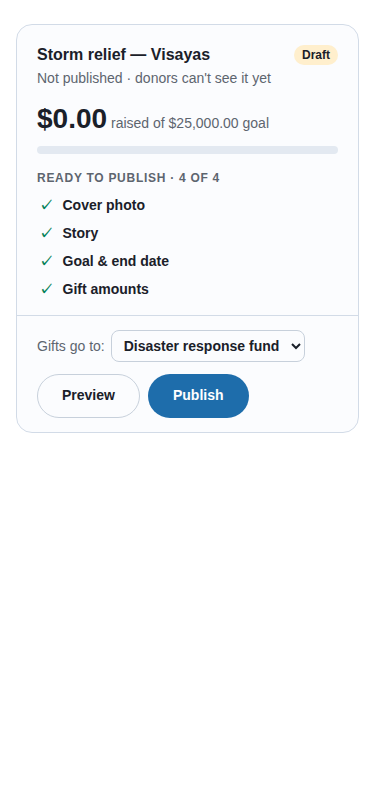
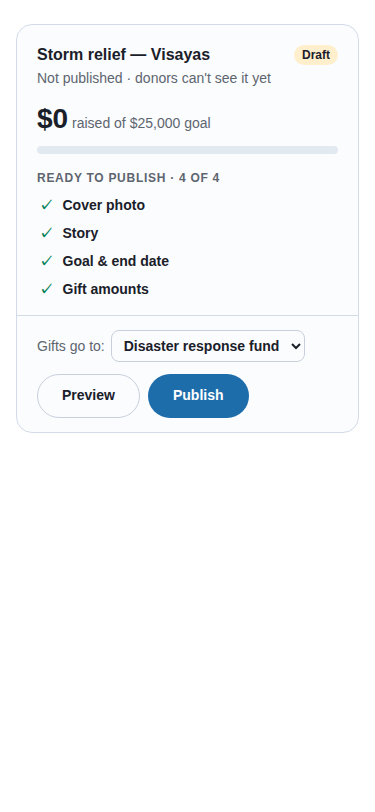
Show whole amounts without cents in the results card and retake the screenshots

Changed region(s): [[0.2053, 0.1232, 0.7333, 0.1847]]

diff --git a/src/widgets/campaign-results/stats.tsx b/src/widgets/campaign-results/stats.tsx
@@ -3,11 +3,11 @@ import type { CampaignResultsData } from "../model";
 import { scaled, scaleOf, unscaled } from "../ui/decimal";
 import { ProgressBar, percentOf } from "../ui/progress";
 import { Sparkline, weekOverWeek } from "../ui/sparkline";
-import { useMoney } from "../ui/text";
+import { useWholeMoney } from "../ui/text";
 import { useLocale } from "../ui/widget";
 
 export function Totals(props: { data: CampaignResultsData }) {
-	const money = useMoney();
+	const money = useWholeMoney();
 	const { data } = props;
 	const { goal } = data.campaign;
 	const percent = percentOf(data.raised, goal);
@@ -48,7 +48,7 @@ export function Totals(props: { data: CampaignResultsData }) {
 }
 
 export function Facts(props: { data: CampaignResultsData }) {
-	const money = useMoney();
+	const money = useWholeMoney();
 	const count = new Intl.NumberFormat(useLocale());
 	const { data } = props;
 	const { daily } = data;

diff --git a/docs/widget-screenshots/README.md b/docs/widget-screenshots/README.md
@@ -2,37 +2,37 @@
 
 Each PNG is one widget state mounted in headless Chromium against a fake MCP Apps host (`test/widget-host/`). Names are `<nn>-<widget>-<state>-<light|dark>-<width>.png`: `01` campaign create, `02` campaigns carousel, `03` results card, `04` editor, `05` photo card. Regenerate with `pnpm widget-shots` (on a clean machine run `pnpm exec playwright-core install chromium` once first: playwright-core ships no browser); the states live in `test/widget-host/fixtures.ts`.
 
-States: `01` presets (history) and starting (no history); `02` five, empty, error; `03` draft, live, end-confirm (End campaign pressed); `04` blocks (fullscreen); `05` dropped (a photo in the chat), none. Every state is shot light and dark at 1440 and 375. The inline widgets sit in a 736px column at 1440, as a chat column does.
+States: `01` presets (history) and starting (no history); `02` five, empty, error; `03` draft, live, end-confirm (End campaign pressed); `04` blocks (fullscreen); `05` dropped (a photo in the chat), none. Every state is shot light and dark at 1440 and 375. The inline widgets sit in a 768px column at 1440, as a chat column does (the carousel's five-up shot uses 1040px).
 
-## Where the widgets differ from DESIGN.md
+## Where the widgets still differ from the approved mockups
 
-The mockup images could not be opened in the build environment, so this compares the built widgets with DESIGN.md's written per-screen rationale.
+Compared against `01`–`04` of the approved mockups. The chat shell around each card (sidebar, assistant text, composer) is drawn by the host and is not built.
 
-**01 Campaign create**
-- Four preset cards as a radio group, a "Recommended from your past results" strip with an evidence sentence per value, and Create draft / Customize match.
-- Customize creates the draft and opens it in the fullscreen editor. Below 640px the cards and the strip wrap 2x2, as DESIGN.md asks.
-- The mockup's pre-selected card comes from the render tool's `theme` input; with none, Emergency is selected.
-- "Starting points" (fewer than 2 past campaigns and 25 gifts) is a state DESIGN.md leaves open; it shows the theme defaults with the strip labelled as starting points.
+**01 Campaign create.** Matches: "Start a campaign" header and subtitle, Draft chip, scene illustrations, theme label in the brand colour, bold titles, goal and end date, gift amounts as pills, selected card with a 2px border and check badge, four recommendation columns with large values, the summary line left of Customize and Create draft.
+- The scenes are simpler redrawings, not the mockup's artwork.
+- The fourth recommendation is the theme, not the mockup's "Monthly ask"; the tool returns a theme recommendation, and "Length" is shown in days ("21 days"), not weeks.
+- The most-chosen-gift column shows the one amount the tool returns, not a ranked list.
 
-**02 Carousel**
-- Same card layout as DESIGN.md: image, status chip, title, raised of goal with the real percent (123% shown, bar capped at 100% and green), one metadata line, one action.
-- At 1440 the 736px chat column shows three cards and the rest scroll sideways; DESIGN.md's mockup shows all five at once. At 375 one card shows at a time.
+**02 Carousel.** Matches: image with the status chip on it, bold title, raised amount in bold with "of goal" muted and the percent at the right, bar, one meta line, one action. In a wide column (this shot uses a 1040px column) all five show; in a narrow one the row scrolls.
+- No "next" arrow button on the row; it scrolls by touch, trackpad or keyboard.
+- Cards have no illustrations: they show the campaign's own photo, or a neutral placeholder.
+- Percent is rounded down (73%), not up (74%), so 100% always means the goal is met.
 
-**03 Results card**
-- Draft: readiness checklist, "Gifts go to" and Publish / Preview match. "Gifts go to" is a select above the buttons, not in the footer.
-- Live: raised vs goal with a progress bar, donors, average and median gift, last 7 days against the previous 7 with a sparkline. End campaign is the red-outline button; the confirm states the effect, the donor count and that it cannot be undone, focus starts on Keep it live, and only the filled red button ends the campaign.
+**03 Results card.** Matches: bold title with "Ends <date> · N days left", status chip at the top right, large raised figure with "raised of $X" beside it, "N% of goal" and "$N to go" under the bar, three tinted tiles (donors with gift count, average with median, last seven days with a trend pill and sparkline), footer with the update time, End campaign and Share link, and the inline confirm naming the campaign and the donor count. Draft: "$0 raised of $X goal", "Ready to publish · 4 of 4" in two columns, "Gifts go to" in the footer beside Preview and Publish.
+- The readiness rows show a label only; the mockup also shows a detail beside each ("storm-relief-cover.jpg", "412 characters"). The tool does not return those details.
+- "N new this week" under Donors is the gift count instead; the tool has no new-donors-this-week figure.
+- "Updated N min ago" counts from when the card opened, not from when the figures were read.
+- The confirm's warning icon is not drawn.
+- The page link also has a View page button, which the mockup does not show.
 
-**04 Editor**
-- Left: draggable block list (with up/down buttons and remove), Add block, and the selected block's fields. Right: live donor-page preview with a desktop/phone toggle. The header has Close, the draft chip, "Saved · v14", Save and Publish.
-- Not built: the ChatGPT composer and the last assistant reply under the editor (the host draws them), and the "Add block" row inside the list (it is a select under the list).
-- Block fields are the block's plain text, number and switch settings; richer settings (rich-text story, images) are changed by asking in the chat, and the editor says so.
-- The preview uses Quicksand (the repo's bundled file, inlined in the widget) and 4px corners, as DESIGN.md asks. It shows no logo lockup: the repo has no lockup image, only the mark.
-- At 375 the preview sits below the fields instead of beside them.
+**04 Editor.** Matches: header with Close, title, Draft chip, saved version and Publish; block rows with a title and a one-line summary; "+ Add block" as a dashed row at the end of the list; story, FAQ answers and the photo are edited in the editor (a text area per story, and Replace photo through the one-time upload page); live preview with a desktop and phone toggle in Quicksand with 4px corners.
+- Blocks have no icons, and the list is not headed "Campaign page".
+- The preview shows the donor page's blocks in a single column; the mockup's brand header with the logo, the floating "Donate now" card with a one-time/monthly switch, and the FAQ links are not drawn.
+- After Replace photo, the new photo shows when the editor is reopened.
+- No undo button and no character counter.
+- The composer and the assistant's last reply are drawn by the host.
 
-**05 Photo card**
-- 16:9 cover, file name, size and type, editable alt text and Set as cover match. Where the host takes no file the card offers Open upload link instead.
-- Not built: Adjust crop. The upload sends the file as it is, so a crop control would promise something the connector does not do.
-- Account section: the connected nonprofit (from `get_profile`) and Disconnect. Disconnect asks the chat how to disconnect, because disconnecting is the host's own flow. There is no list of other orgs (the deployment has none), as the brief decided.
+**05 Photo card.** Not part of this pass: unchanged from the earlier notes. Adjust crop is not built, and the account section shows the connected nonprofit and Disconnect only.
 
 ## Across all widgets
 - Widget UI uses the system font and host radii; brand colour carries the meaning, as DESIGN.md says. The dark half is the repo's own addition (Platform's palette is light only); the donor-page preview stays light in dark hosts.
